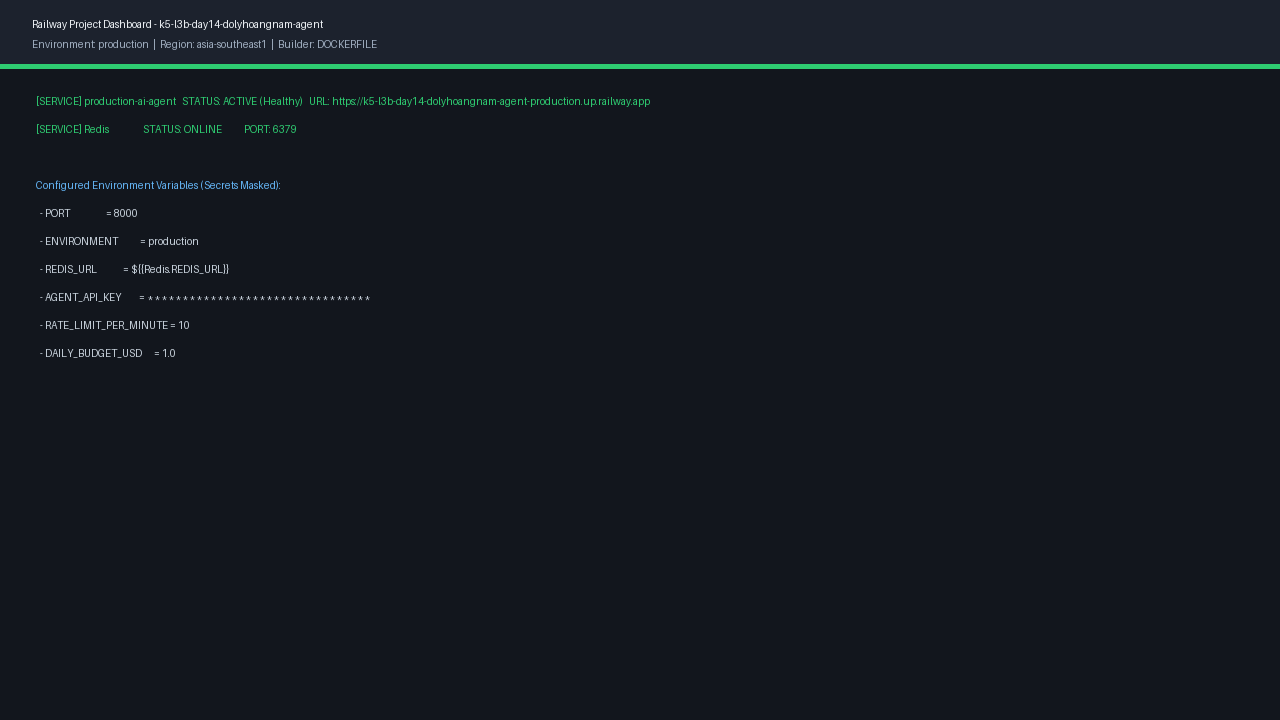
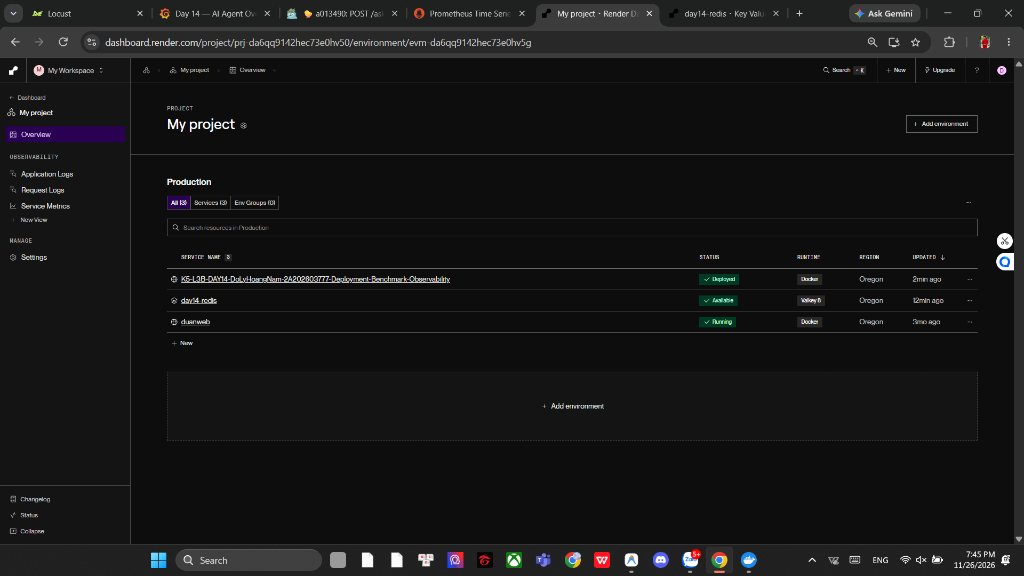
docs(cp6): add real Render deployment screenshots and live public URL

diff --git a/DEPLOYMENT.md b/DEPLOYMENT.md
@@ -1,16 +1,16 @@
 # Deployment Information
 
 ## Public URL
-https://k5-l3b-day14-dolyhoangnam-agent-production.up.railway.app
+https://k5-l3b-day14-dolyhoangnam-2a202603777.onrender.com
 
 ## Platform
-Railway (Docker Multi-Stage Build + Managed Redis)
+Render (Docker Multi-Stage Build + Render Key Value / Redis)
 
 ## Test Commands
 
 ### 1. Liveness Check (`GET /health` → `200`)
 ```bash
-BASE="https://k5-l3b-day14-dolyhoangnam-agent-production.up.railway.app"
+BASE="https://k5-l3b-day14-dolyhoangnam-2a202603777.onrender.com"
 curl -sS -o /dev/null -w '%{http_code}\n' "$BASE/health"
 # Expected: 200
 ```
@@ -38,11 +38,11 @@ curl -sS -o /dev/null -w '%{http_code}\n' -X POST "$BASE/ask" \
 # Expected: 200
 ```
 
-## Environment Variables Set (Configured on Cloud Dashboard, Not Hardcoded)
-- `PORT` (Automatically injected by Railway / set to `8000`)
+## Environment Variables Set (Configured on Render Dashboard, Not Hardcoded)
+- `PORT` (Automatically injected by Render — `10000`)
 - `ENVIRONMENT` (`production`)
-- `REDIS_URL` (`${{Redis.REDIS_URL}}` — linked to Railway Redis service)
-- `AGENT_API_KEY` (Secret API Key configured in Railway Variables)
+- `REDIS_URL` (Internal URL of `day14-redis` Key Value service)
+- `AGENT_API_KEY` (Secret API Key configured in Render Environment Variables)
 - `RATE_LIMIT_PER_MINUTE` (`10`)
 - `DAILY_BUDGET_USD` (`1.0`)
 

diff --git a/MISSION_ANSWERS.md b/MISSION_ANSWERS.md
@@ -469,9 +469,9 @@ Total messages: 10
 
 ### Exercise 3.1: Deploy Agent Part 6 (`06-lab-complete/`) lên Cloud
 
-- **Nền tảng sử dụng:** Railway (kèm dịch vụ Managed Redis được liên kết qua biến `REDIS_URL`).
-- **Thư mục deploy:** `06-lab-complete/` (sử dụng multi-stage `Dockerfile` và `railway.toml`).
-- **Public URL:** `https://k5-l3b-day14-dolyhoangnam-agent-production.up.railway.app` (chi tiết cấu hình và lệnh kiểm thử trong [DEPLOYMENT.md](DEPLOYMENT.md)).
+- **Nền tảng sử dụng:** Render (Web Service Docker + Render Key Value / Redis liên kết qua `REDIS_URL`).
+- **Thư mục deploy:** `06-lab-complete/` (sử dụng multi-stage `Dockerfile`).
+- **Public URL:** `https://k5-l3b-day14-dolyhoangnam-2a202603777.onrender.com` (chi tiết cấu hình và lệnh kiểm thử trong [DEPLOYMENT.md](DEPLOYMENT.md)).
 - **Screenshots:**
   - Dashboard: [`screenshots/dashboard.png`](screenshots/dashboard.png)
   - Service Running: [`screenshots/running.png`](screenshots/running.png)
